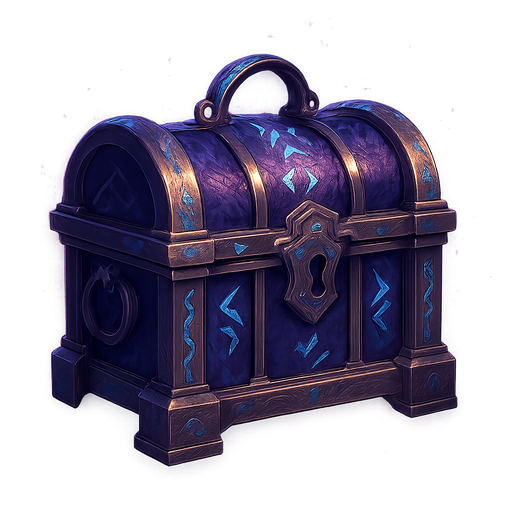
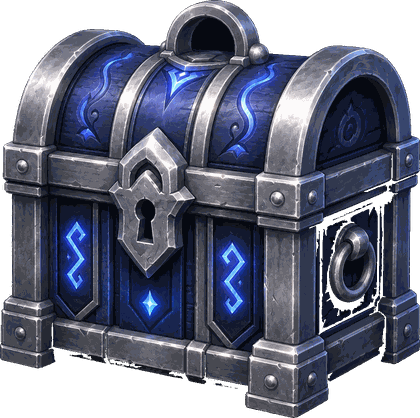
Truhen v2: neue Artworks, Mehrfach-Drops, Clash-artiges Tipp-Aufdecken
Artworks: die vier gelieferten Truhen-Bilder (Holz/Silber/Gold/Diamant)
freigestellt (Kanten-Floodfill), verkleinert, quantisiert -> lobby/chest-*.png?v=2

Server (Migration wizard_chest_multidrop, live angewendet):
- Jede Truhe enthaelt jetzt MEHRERE Drops: Holz 2, Silber 3, Gold 4, Diamant 5
- Jeder Drop: 60% Kristalle / 40% Gold-Muenzen, Item-Chance je Drop
  (2,5%/5%/9%/15% nach Seltenheit, max. 2 Items je Truhe, nur unbesessene)
- wizard_open_chest gibt das Drop-Array als jsonb zurueck; Wallet/Inventar/
  Ledger wie gehabt serverseitig; reward_json dokumentiert den Wurf

Client:
- Oeffnen wie in Clash Royale: nach dem Aufplatzen wird jeder Drop einzeln
  enthuellt - Tippen auf die Karte zeigt den naechsten (Fortschritts-Punkte,
  '👆 Tippen zum Aufdecken'), am Ende Gesamt-Zusammenfassung + Schliessen
- Drops: Kristalle/Muenzen mit hochlaufendem Zaehler + Funken, Items mit
  NEU-Badge, Artwork, Extra-Konfetti und Haptik
- db.js openChest an neue Rueckgabe angepasst; app.js v134

Claude-Session: https://claude.ai/code/session_01MGnrpYm1rjF2AQZegA46XA

diff --git a/app.js b/app.js
@@ -991,7 +991,7 @@ function chestTile(c) {
   const m = CHEST_META[c.rarity] || {};
   const src = c.source === 'game' ? 'aus einem Spiel' : c.source === 'daily' ? 'Tagestruhe' : 'gekauft';
   return `<button class="chest-tile" data-openchest="${esc(c.id)}" type="button" style="--r:${m.color || '#888'}">
-    <img class="chest-img" src="lobby/chest-${esc(c.rarity)}.png?v=1" alt="" loading="lazy">
+    <img class="chest-img" src="lobby/chest-${esc(c.rarity)}.png?v=2" alt="" loading="lazy">
     <span class="chest-lbl">${esc(m.label || c.rarity)}</span>
     <span class="chest-sub">${src}</span>
     <span class="chest-open">Öffnen</span>
@@ -1004,7 +1004,7 @@ function chestPane() {
     : `<p class="muted" style="text-align:center;margin:14px 0">Noch keine Truhen. Hol die Tagestruhe oder spiel eine Online-Runde!</p>`;
   const buy = CHEST_TIERS.map(t => `
     <button class="chest-buy" data-buychest="${t.rarity}" type="button" style="--r:${t.color}">
-      <img class="chest-img sm" src="lobby/chest-${t.rarity}.png?v=1" alt="" loading="lazy">
+      <img class="chest-img sm" src="lobby/chest-${t.rarity}.png?v=2" alt="" loading="lazy">
       <span class="chest-lbl">${esc(t.label)}</span>
       <span class="chest-cost">${CRY} ${nf(t.price)}</span>
     </button>`).join('');
@@ -1087,6 +1087,20 @@ function countUpCrystals(el, target) {
   })();
 }
 
+// HTML fuer einen einzelnen Drop (Kristalle / Gold-Muenzen / Item).
+function chestDropHtml(d) {
+  if (d.t === 'item') {
+    const it = findCatalogItem(d.item_id);
+    return `<div class="drop-big item">
+      <span class="drop-new">✨ NEU</span>
+      ${it?.img ? `<img class="reveal-item-img" src="${esc(it.img)}?v=7" alt="">` : ''}
+      <b>${esc(it?.name || d.item_id)}</b>
+    </div>`;
+  }
+  if (d.t === 'gold') return `<div class="drop-big goldc">🪙 +<b class="drop-n">0</b></div>`;
+  return `<div class="drop-big crystals">${CRY} +<b class="drop-n">0</b></div>`;
+}
+
 async function openChestModal(chest) {
   const meta = CHEST_META[chest.rarity] || {};
   document.getElementById('chest-modal')?.remove();
@@ -1098,23 +1112,58 @@ async function openChestModal(chest) {
         <div class="chest-stage">
           <div class="chest-rays" aria-hidden="true"></div>
           <div class="chest-flash" aria-hidden="true"></div>
-          <img class="chest-big-img" src="lobby/chest-${esc(chest.rarity)}.png?v=1" alt="">
+          <img class="chest-big-img" src="lobby/chest-${esc(chest.rarity)}.png?v=2" alt="">
         </div>
       </div>
       <h2>${esc(meta.label || 'Truhe')}</h2>
       <div id="chest-reveal" class="chest-reveal"></div>
+      <div id="chest-dots" class="drop-dots" hidden></div>
+      <div id="chest-hint" class="drop-hint" hidden>👆 Tippen zum Aufdecken</div>
       <button class="btn" id="chest-openbtn" type="button">Öffnen</button>
       <button class="btn sekundaer" id="chest-close" type="button" style="margin-top:8px" hidden>Schließen</button>
     </div>`;
   document.body.appendChild(wrap);
+  const card = wrap.querySelector('.chest-card');
   const closeBtn = wrap.querySelector('#chest-close');
   const openBtn = wrap.querySelector('#chest-openbtn');
   const anim = wrap.querySelector('.chest-anim');
   const stage = wrap.querySelector('.chest-stage');
   const reveal = wrap.querySelector('#chest-reveal');
+  const dotsEl = wrap.querySelector('#chest-dots');
+  const hintEl = wrap.querySelector('#chest-hint');
   const done = () => wrap.remove();
   closeBtn.onclick = done;
   wrap.addEventListener('click', e => { if (e.target === wrap && !closeBtn.hidden) done(); });
+
+  // --- Clash-artiges Aufdecken: Drops einzeln, jeder Tipp zeigt den naechsten -
+  let drops = [], idx = 0, revealPhase = false, finishing = null;
+
+  const showNextDrop = () => {
+    if (idx >= drops.length) return;
+    const d = drops[idx];
+    reveal.innerHTML = chestDropHtml(d);
+    if (d.t === 'crystals' || d.t === 'gold') {
+      countUpCrystals(reveal.querySelector('.drop-n'), d.n | 0);
+    }
+    spawnChestParticles(stage, d.t === 'item' ? 12 : 6);
+    haptic?.(d.t === 'item' ? [30, 40, 80] : 18);
+    if (d.t === 'item') confetti(1800);
+    idx++;
+    dotsEl.innerHTML = drops.map((_, i) =>
+      `<span class="drop-dot${i < idx ? ' done' : ''}"></span>`).join('');
+    if (idx >= drops.length) {
+      hintEl.hidden = true;
+      revealPhase = false;
+      finishing?.();
+    }
+  };
+
+  // Tipp irgendwo auf die Karte (ausser Knoepfe) deckt den naechsten Drop auf.
+  card.addEventListener('click', (e) => {
+    if (!revealPhase || e.target.closest('button')) return;
+    showNextDrop();
+  });
+
   openBtn.onclick = async () => {
     openBtn.disabled = true;
     // Phase 1: Wackeln, nach kurzer Zeit staerker (Spannung steigt).
@@ -1123,7 +1172,7 @@ async function openChestModal(chest) {
     let m;
     try { m = await db(); await m.ensureAuth(); } catch (_) { clearTimeout(esk); toast('Nur online möglich.', 'err'); done(); return; }
     const [r] = await Promise.all([
-      m.openChest(chest.id).catch(() => ({ ok: false })),
+      m.openChest(chest.id).catch(() => ({ ok: false, rewards: [] })),
       new Promise(res => setTimeout(res, REDUCED_MOTION ? 150 : 1000)),   // Mindest-Spannung
     ]);
     clearTimeout(esk);
@@ -1136,23 +1185,34 @@ async function openChestModal(chest) {
     confetti(chest.rarity === 'diamant' ? 3600 : 2200);
     haptic?.([30, 40, 30, 40, 120]);
     walletCache.crystals = r.new_crystals ?? walletCache.crystals;
-
-    // Phase 3: Zaehler hochlaufen lassen, Item danach enthuellen.
-    reveal.innerHTML = `<div class="reveal-crystals">${CRY} +<b>0</b></div>`
-      + (r.item_id ? `<div class="reveal-item" id="reveal-item"></div>` : '');
-    countUpCrystals(reveal.querySelector('.reveal-crystals b'), r.crystals_won);
-    if (r.item_id) {
-      const it = findCatalogItem(r.item_id);
-      const itemEl = reveal.querySelector('#reveal-item');
-      itemEl.innerHTML = `✨ Neu freigeschaltet:<br><b>${esc(it?.name || r.item_id)}</b>`
-        + (it?.img ? `<img class="reveal-item-img" src="${esc(it.img)}?v=7" alt="">` : '');
-      setTimeout(() => itemEl.classList.add('show'), REDUCED_MOTION ? 0 : 900);
-    }
-    openBtn.hidden = true; closeBtn.hidden = false;
+    walletCache.gold = r.new_gold ?? walletCache.gold;
     chestCache = chestCache.filter(c => c.id !== chest.id);
     refreshChestBadge();
-    if (r.item_id) { try { walletCache = await m.getWallet(); } catch (_) {} }
-    renderShop();
+
+    // Phase 3: Drops einzeln aufdecken; am Ende Zusammenfassung + Schliessen.
+    drops = Array.isArray(r.rewards) ? r.rewards : [];
+    const gotItem = drops.some(d => d.t === 'item');
+    finishing = async () => {
+      const sumC = drops.filter(d => d.t === 'crystals').reduce((a, d) => a + (d.n | 0), 0);
+      const sumG = drops.filter(d => d.t === 'gold').reduce((a, d) => a + (d.n | 0), 0);
+      const items = drops.filter(d => d.t === 'item');
+      reveal.innerHTML = `<div class="drop-sum">
+          ${sumC ? `<span>${CRY} +${nf(sumC)}</span>` : ''}
+          ${sumG ? `<span>🪙 +${nf(sumG)}</span>` : ''}
+        </div>`
+        + items.map(d => {
+          const it = findCatalogItem(d.item_id);
+          return `<div class="reveal-item show">✨ <b>${esc(it?.name || d.item_id)}</b> freigeschaltet</div>`;
+        }).join('');
+      closeBtn.hidden = false;
+      if (gotItem) { try { walletCache = await m.getWallet(); } catch (_) {} }
+      renderShop();
+    };
+    openBtn.hidden = true;
+    if (!drops.length) { finishing(); return; }   // Sicherheitsnetz
+    dotsEl.hidden = false; hintEl.hidden = false;
+    revealPhase = true;
+    showNextDrop();   // ersten Drop sofort zeigen, die weiteren per Tipp
   };
 }
 

diff --git a/index.html b/index.html
@@ -1660,6 +1660,30 @@
   .reveal-crystals { font-size: 1.7rem; font-weight: 800; color: var(--gold);
     font-variant-numeric: tabular-nums; animation: revealPop .45s cubic-bezier(.2,1.6,.4,1); }
   @keyframes revealPop { from { transform: scale(.6); opacity: 0; } }
+  /* Einzelner Drop (Clash-artiges Aufdecken per Tipp) */
+  .drop-big { font-size: 1.8rem; font-weight: 800; color: var(--gold); min-height: 2.4rem;
+    font-variant-numeric: tabular-nums; animation: revealPop .45s cubic-bezier(.2,1.6,.4,1); }
+  .drop-big .cry { height: 1.2em; vertical-align: -0.22em; }
+  .drop-big.goldc { color: #ffd25e; }
+  .drop-big.item { font-size: 1.05rem; color: #fff; }
+  .drop-new { display: inline-block; background: var(--gold); color: #1a1033;
+    font-size: .62rem; font-weight: 800; letter-spacing: 1px; padding: 2px 9px;
+    border-radius: 8px; margin-bottom: 6px; }
+  .drop-big.item .reveal-item-img { margin: 6px auto 4px; }
+  .drop-big.item b { display: block; font-size: 1.1rem; }
+  /* Fortschritts-Punkte + Tipp-Hinweis */
+  .drop-dots { display: flex; justify-content: center; gap: 8px; margin: 2px 0 6px; }
+  .drop-dot { width: 11px; height: 11px; border-radius: 50%;
+    border: 2px solid var(--goldline); background: transparent; }
+  .drop-dot.done { background: var(--gold); border-color: var(--gold); }
+  .drop-hint { color: rgba(255,255,255,.65); font-size: .84rem; margin-bottom: 10px;
+    animation: hintPulse 1.4s ease-in-out infinite; }
+  @keyframes hintPulse { 0%,100% { opacity: .55; } 50% { opacity: 1; } }
+  /* Abschluss-Zusammenfassung */
+  .drop-sum { display: flex; justify-content: center; gap: 16px; flex-wrap: wrap;
+    font-size: 1.25rem; font-weight: 800; color: var(--gold);
+    font-variant-numeric: tabular-nums; animation: revealPop .4s ease; }
+  .drop-sum .cry { height: 1.15em; vertical-align: -0.2em; }
   .reveal-item { margin-top: 10px; color: #fff; font-size: .95rem;
     opacity: 0; transform: scale(.8) translateY(8px);
     transition: opacity .4s ease, transform .4s cubic-bezier(.2,1.6,.4,1); }
@@ -1682,7 +1706,7 @@
     .chest-tile, .chest-anim.shake .chest-big-img, .chest-anim.shake2 .chest-big-img,
     .chest-anim.burst .chest-big-img, .chest-anim.burst .chest-rays,
     .chest-anim.shake2 .chest-rays, .chest-anim.burst .chest-flash,
-    .chest-part, .reveal-crystals { animation: none; }
+    .chest-part, .reveal-crystals, .drop-big, .drop-hint, .drop-sum { animation: none; }
     .chest-anim.burst .chest-rays { opacity: .5; }
     .reveal-item { transition: none; }
   }
@@ -2248,6 +2272,6 @@
   window.addEventListener('pagehide', () => { dropFocus(); armInputs(); });
   window.addEventListener('pageshow', () => { dropFocus(); window.scrollTo(0, 0); });
 </script>
-<script type="module" src="./app.js?v=133"></script>
+<script type="module" src="./app.js?v=134"></script>
 </body>
 </html>

diff --git a/db.js b/db.js
@@ -187,10 +187,11 @@ export async function claimDailyChest() {
   const rows = await rpc('wizard_claim_daily_chest');
   return rows?.[0] || { ok: false, message: 'Fehler' };
 }
-// Truhe oeffnen. { ok, crystals_won, item_id, item_kind, new_crystals, rarity, message }.
+// Truhe oeffnen (v2: mehrere Drops).
+// { ok, rewards:[{t:'crystals'|'gold'|'item', n?, item_id?, kind?}], new_crystals, new_gold, rarity, message }.
 export async function openChest(chestId) {
   const rows = await rpc('wizard_open_chest', { p_chest_id: chestId });
-  return rows?.[0] || { ok: false, message: 'Fehler' };
+  return rows?.[0] || { ok: false, rewards: [], message: 'Fehler' };
 }
 // Truhe mit Kristallen kaufen. { ok, chest_id, crystals, message }.
 export async function buyChest(rarity) {
